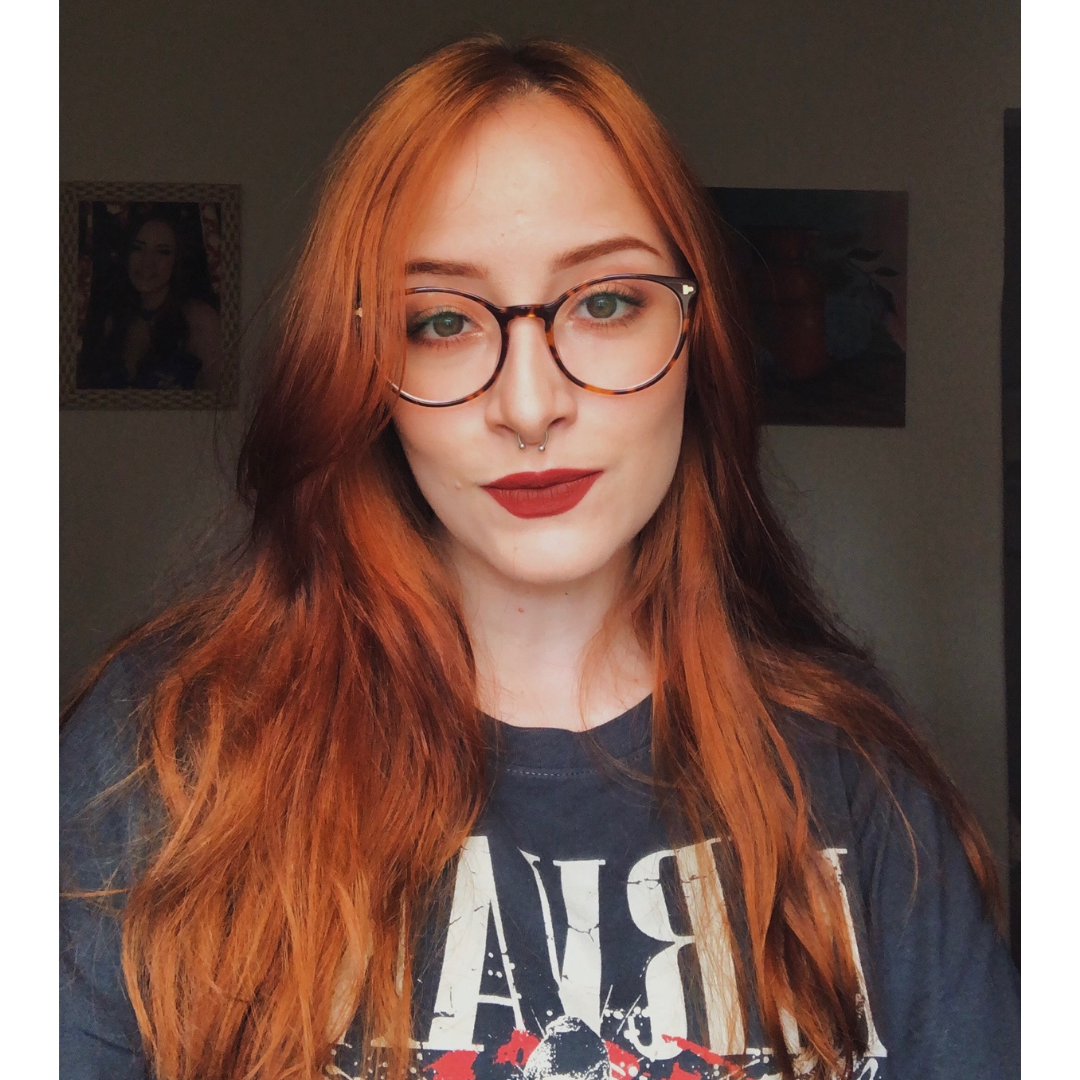
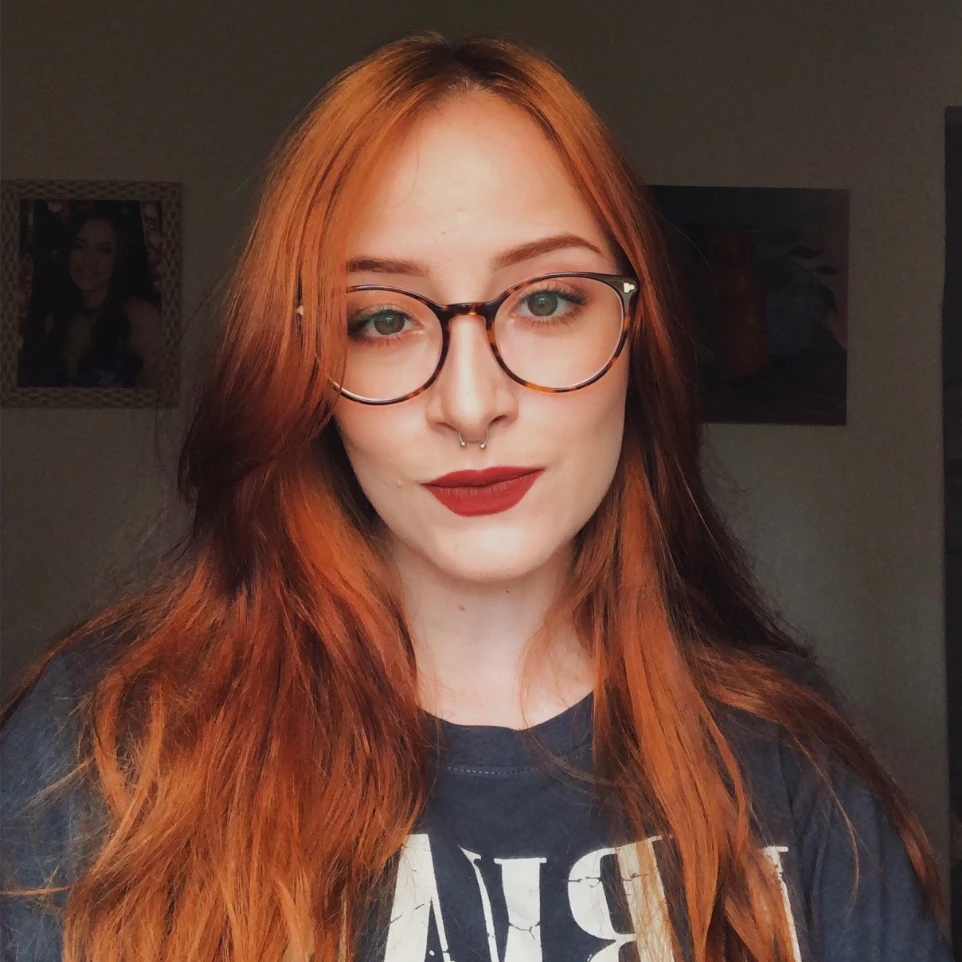
exclusao de codigo

diff --git a/index.html b/index.html
@@ -6,7 +6,8 @@
     <meta name="viewport" content="width=device-width, initial-scale=1.0">
     <title>givabpl</title>
     <link rel="stylesheet" type="text/css" href="bootstrap/css/bootstrap.min.css">
-    <link rel="stylesheet" type="text/css" href="CSS/style.css">
+    <link rel="stylesheet" type="text/css" href="css/style.css">
+    <link rel="stylesheet" type="text/css" href="css/footer.css">
     <link rel="shortcut icon" href="icone/gbs.ico" type="image/x-icon">
 </head>
 <body>
@@ -50,88 +51,18 @@
     </header>
     
     <main id="main">
-      <!--<section class="carousel">
-        <div class="carousel-imgs">
-          <picture>
-
-            <source media="(max-width: 400px)" srcset="imagens/carrossel/carousel-1-pp.webp" type="image/webp">
-
-            <source media="(max-width: 600px)" srcset="imagens/carrossel/carousel-1-p.webp" type="image/webp">
-
-            <source media="(max-width: 800px)" srcset="imagens/carrossel/carousel-1-m.webp" type="image/webp">
-
-            <source media="(max-width: 1200px)" srcset="imagens/carrossel/carousel-1-g.webp" type="image/webp">
-            
-            <img src="imagens/carrossel/carousel-1-gg.webp" alt="Giovana Balestrero Sigolo Developer">
-
-          </picture>
-
-          <picture>
-
-            <source media="(max-width: 400px)" srcset="imagens/carrossel/carousel-2-pp.webp" type="image/webp">
-
-            <source media="(max-width: 600px)" srcset="imagens/carrossel/carousel-2-p.webp" type="image/webp">
-
-            <source media="(max-width: 800px)" srcset="imagens/carrossel/carousel-2-m.webp" type="image/webp">
-
-            <source media="(max-width: 1200px)" srcset="imagens/carrossel/carousel-2-g.webp" type="image/webp">
-
-            <img src="imagens/carrossel/carousel-2-gg.webp" alt="Conhecimentos: Inglês fluente, HTML5 e CSS3, Javascript e Bootstrap">
-
-          </picture>
-
-          <picture>
-
-            <source media="(max-width: 400px)" srcset="imagens/carrossel/carousel-3-pp.webp" type="image/webp">
-
-            <source media="(max-width: 600px)" srcset="imagens/carrossel/carousel-3-p.webp" type="image/webp">
-
-            <source media="(max-width: 800px)" srcset="imagens/carrossel/carousel-3-m.webp" type="image/webp">
-
-            <source media="(max-width: 1200px)" srcset="imagens/carrossel/carousel-3-g.webp" type="image/webp">
-
-            <img src="imagens/carrossel/carousel-3-gg.webp" alt="Email institucional: giovana.sigolo@fatec.sp.gov.br">
-          </picture>
-          <picture>
-
-            <source media="(max-width: 400px)" srcset="imagens/carrossel/carousel-1-pp.webp" type="image/webp">
-
-            <source media="(max-width: 600px)" srcset="imagens/carrossel/carousel-1-p.webp" type="image/webp">
-
-            <source media="(max-width: 800px)" srcset="imagens/carrossel/carousel-1-m.webp" type="image/webp">
-
-            <source media="(max-width: 1200px)" srcset="imagens/carrossel/carousel-1-g.webp" type="image/webp">
-
-            <img src="imagens/carrossel/carousel-1-gg.webp" alt="Giovana Baletrero Sigolo Developer">
-
-          </picture>
-        </div>
-      </section> -->
-
-      <!--<section>
-        <div class="row justify-content-center">
-          <div class="lista1">
-            <ul>
-              <li>DEV</li>
-            </ul>
-          </div>
-        </div>
-      </section>-->
-
-
       <article class="sobre">
         <section>
             <h1 class="title" style="margin-top: 1em;">OI &lt;3</h1> <!--CSS INLINE-->
             <div>
               <picture class="sobre-img">
-
                 <source media="(max-width: 500px)" srcset="perfil/perfil-site-pp.webp" type="image/webp">
 
                 <source media="(max-width: 700px)" srcset="perfil/perfil-site-p.webp" type="image/webp">
 
                 <source media="(max-width: 1000px)" srcset="perfil/perfil-site-m.webp" type="image/webp">
 
-                <img src="perfil/perfil-site-g.webp" alt="Foto de Perfil">
+                <img src="perfil/perfil-site.webp" alt="Foto de Perfil">
               </picture>
             </div>
             <p>

diff --git a/CSS/style.css b/CSS/style.css
@@ -52,41 +52,11 @@ nav > a {
 .bi{
     color: var(--titulo);
 }
-
-/*.carousel{
-    position:relative;
-    width: 100%;
-    overflow: hidden;
-}
-.carousel-imgs{
-    display: flex;
-    flex-direction: row;
-    width: 400%;
-    animation-name: animation-carousel;
-    animation-duration: 20s;
-    animation-iteration-count: infinite;
-}
-.carousel-imgs img{
-    width: 100%;
-}
-@keyframes animation-carousel {
-    0%{ margin-left: 0;}
-    10%{ margin-left: 0;}
-    20%{ margin-left: -100%;}
-    40%{ margin-left: -100%;}
-    50%{ margin-left: -100%;}
-    60%{ margin-left: -200%;}
-    70%{ margin-left: -200%;}
-    80%{ margin-left: -200%;}
-    90%{ margin-left: -300%;}
-    100%{ margin-left: -300%;}
-} */
-
 .lista1 ul{
     list-style-type: none;
     font-size: 5em;
 }
-article {
+article{
     font-family: var(--fonte-body);
     margin: 1em auto;
     padding: 2em;
@@ -100,9 +70,6 @@ article {
     color: var(--titulo);
     margin-top: 3em;
     margin-bottom: 1em;
-}
-.sobre img{ 
-    border-radius: 25em;
 }
 h1{
     font-size: 2em;
@@ -140,8 +107,11 @@ article p{
     flex-direction: row;
 }
 .sobre-img > img{
+    height: 55%; 
+    width: 55%; 
     object-fit: contain;
     margin: 1em;
+    border-radius: 30em;
 }
 .bi-link-45deg {
     color: var(--titulo);
@@ -191,26 +161,4 @@ article p{
 .logo-body{
     text-align: center;
     padding-bottom: 1em;
-}
-footer{
-    background-color: var(--footer);
-    text-align: center;
-    padding: 2em;
-}
-footer a{
-    color: var(--cor2);
-}
-footer a:hover{
-    color: var(--cor2);
-}
-footer #footer-imgs{
-    justify-content: center;
-    color: var(--titulo);
-}
-footer .col{
-    margin: 0.5em;
-}
-#footer-imgs .bi:hover{
-    color: white;
-    transition: 0.5s;
 }

diff --git a/CSS/footer.css b/CSS/footer.css
@@ -1,0 +1,31 @@
+@charset "UTF-8";
+@import url('https://fonts.googleapis.com/css2?family=Bodoni+Moda:ital,opsz,wght@0,6..96,400;0,6..96,700;1,6..96,400&family=Inconsolata:wght@200;400;700&display=swap');
+
+:root{
+    --cor2: #b9b9b9;
+    --titulo: #FFE3BA;
+    --titulo-highlight: #fae7ca; 
+    --footer: #0e1013; 
+}
+footer{
+    background-color: var(--footer);
+    text-align: center;
+    padding: 2em;
+}
+footer a{
+    color: var(--cor2);
+}
+footer a:hover{
+    color: var(--cor2);
+}
+footer #footer-imgs{
+    justify-content: center;
+    color: var(--titulo);
+}
+footer .col{
+    margin: 0.5em;
+}
+#footer-imgs .bi:hover{
+    color: white;
+    transition: 0.5s;
+}

diff --git a/projetos.html b/projetos.html
@@ -6,7 +6,8 @@
     <meta name="viewport" content="width=device-width, initial-scale=1.0">
     <title>givabpl</title>
     <link rel="stylesheet" type="text/css" href="bootstrap/css/bootstrap.min.css">
-    <link rel="stylesheet" type="text/css" href="CSS/projetos.css">
+    <link rel="stylesheet" type="text/css" href="css/projetos.css">
+    <link rel="stylesheet" type="text/css" href="css/footer.css">
     <link rel="shortcut icon" href="icone/gbs.ico" type="image/x-icon">
 </head>
 <body>

diff --git a/CSS/projetos.css b/CSS/projetos.css
@@ -102,25 +102,4 @@ article img{
     text-align: center;
     padding-bottom: 1em;
 }
-footer{
-    background-color: var(--footer);
-    text-align: center;
-    padding: 2em;
-}
-footer a{
-    color: var(--cor2);
-}
-footer a:hover{
-    color: var(--cor2);
-}
-footer #footer-imgs{
-    justify-content: center;
-    color: var(--titulo);
-}
-footer .col{
-    margin: 0.5em;
-}
-#footer-imgs .bi:hover{
-    color: white;
-    transition: 0.5s;
-}
+
